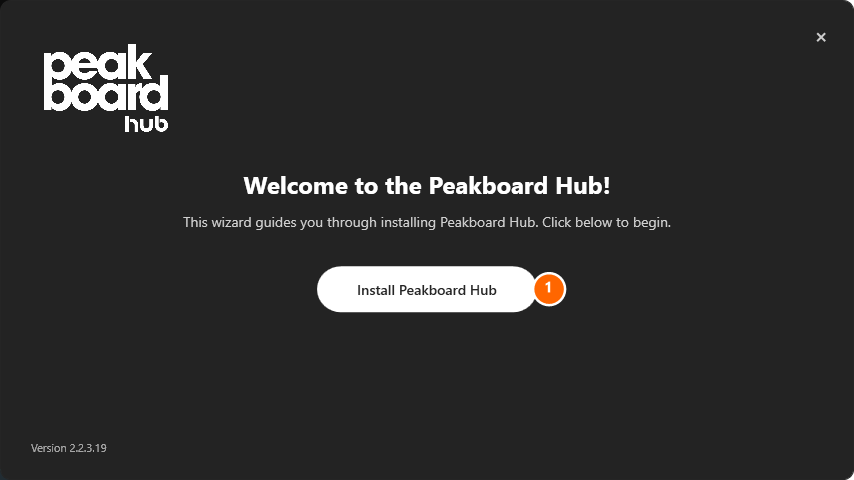
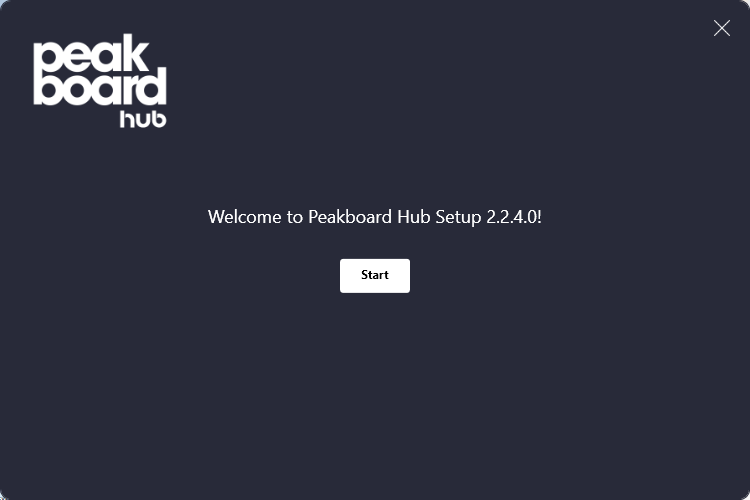
docs(hub): rewrite Peakboard Hub on premise installation for setup v2.2.4.0 (DE+EN)
Rewrite the on-premise installation article to match the redesigned
PeakboardHubSetup.exe wizard: Welcome/Start, Choose Components,
Choose Install Path, Generate Peakboard Hub Database, Create Database
user, progress and Installation finished. Drop the removed User
Authentication step, split the database page into database + database
user, and refresh all screenshots with new annotated captures.

diff --git a/content/_hub/Peakboard_Hub_on_premise/de-hub_installation.md b/content/_hub/Peakboard_Hub_on_premise/de-hub_installation.md
@@ -3,7 +3,7 @@ layout: article
 product: hub
 title: Installation
 menu_title: Installation
-description: Peakboard Hub on premise - Schritt-für-Schritt-Anleitung für den Installer
+description: Peakboard Hub on premise - Schritt-für-Schritt-Anleitung durch das neue Setup
 lang: de
 weight: 100
 ref: hub-100
@@ -12,7 +12,7 @@ redirect_from:
 ---
 
 
-Der Peakboard Hub on premise wird lokal auf deinem Server gehostet und benötigt Windows Server ab mindestens Version 2016. IIS, die ASP.NET Core Runtime und das passende Hosting Bundle musst du nicht vorab installieren — das Setup richtet alles automatisch ein, was der Peakboard Hub on premise zum Laufen braucht.
+Der Peakboard Hub on premise wird lokal auf deinem Server gehostet und benötigt Windows Server ab mindestens Version 2016. IIS, die ASP.NET Core Runtime und das passende .NET Hosting Bundle musst du nicht vorab installieren — das Setup richtet alles automatisch ein, was der Peakboard Hub on premise zum Laufen braucht.
 Es wird zu keinem Zeitpunkt eine Kommunikation nach außen hergestellt, sondern ausschließlich zwischen dem Nutzer, den Peakboard Boxen und dem Peakboard Hub on premise.
 Für die Authentifizierung kann der Windows Domain Controller (Active Directory) oder eine lokale Nutzerverwaltung genutzt werden.
 Die Datenhaltung des Peakboard Hub on premise findet in einem mitgelieferten SQL Server Express statt. Es kann aber auch ein bereits vorhandener SQL Server ab Version 2017 verwendet werden.
@@ -30,83 +30,77 @@ Der Server, auf dem der Peakboard Hub on premise betrieben wird, muss mindestens
 
 ### Installation
 
-Für die initiale Installation auf einem Windows Server benötigst du nur die Installationsdatei des Peakboard Hub on premise, die du [hier](https://downloads.peakboard.com/download/PeakboardHub/master/PeakboardHubSetup.exe) herunterladen kannst. Starte die Datei anschließend mit Administratorrechten — der Installer führt dich in vier Schritten durch die Einrichtung.
+Für die initiale Installation auf einem Windows Server benötigst du nur die Installationsdatei des Peakboard Hub on premise, die du [hier](https://downloads.peakboard.com/download/PeakboardHub/master/PeakboardHubSetup.exe) herunterladen kannst. Starte die Datei anschließend mit Administratorrechten — das Setup führt dich durch die Einrichtung.
 
 #### Schritt 1 — Willkommen
 
-Nach dem Start erscheint der Begrüßungsbildschirm. Klicke auf [Install Peakboard Hub] (1), um den Assistenten zu öffnen.
+Nach dem Start erscheint der Begrüßungsbildschirm mit der aktuellen Setup-Version. Klicke auf [Start], um den Assistenten zu öffnen.
 
-![Begrüßungsbildschirm des Peakboard Hub Installers](/assets/images/hub/installer/hub-installer-01-welcome.png)
+![Begrüßungsbildschirm des Peakboard Hub Setups](/assets/images/hub/installer/hub-installer-01-welcome.png)
 
 #### Schritt 2 — Komponenten auswählen
 
-Im Schritt **Choose components** legst du fest, welche Bestandteile installiert werden sollen. Bereits installierte Komponenten sind standardmäßig abgewählt, sodass du sie bei einem Update überspringst.
+Im Schritt **Choose Components** legst du fest, welche Bestandteile installiert werden sollen. Für eine Erstinstallation kannst du die vorausgewählten Komponenten einfach übernehmen.
 
-* **Peakboard Hub (web application)** (1) — Die zentrale Webanwendung des Peakboard Hub. Bei einer Erstinstallation immer aktiviert lassen.
-* **Install Microsoft SQL Server Express** (2) — Aktiviere die Option, wenn du noch keinen SQL Server zur Verfügung hast. Der Installer richtet dann eine lokale SQL Server Express Instanz ein. Wenn du einen bereits vorhandenen SQL Server nutzen möchtest, lass die Option abgewählt.
-* **Peakboard Hub Public API** (3) — Optionale REST-Schnittstelle, mit der du den Peakboard Hub aus anderen Systemen heraus ansprechen kannst.
+* **Peakboard Hub** (1) — Die zentrale Webanwendung des Peakboard Hub. Bei einer Erstinstallation immer aktiviert lassen.
+* **.NET Hosting Bundle** — Die von IIS benötigte ASP.NET Core Runtime. Lass die Option aktiviert, sofern das Bundle noch nicht auf dem Server vorhanden ist.
+* **Configure IIS Page** — Richtet die IIS-Seite für den Peakboard Hub automatisch ein.
+* **Install Microsoft SQL Server Express** (2) — Aktiviere die Option, wenn du noch keinen SQL Server zur Verfügung hast. Das Setup richtet dann eine lokale SQL Server Express Instanz ein. Wenn du einen bereits vorhandenen SQL Server nutzen möchtest, lass die Option abgewählt.
+* **Configure Database** (3) — Legt die Datenbank und den Datenbankbenutzer für den Peakboard Hub an. Die zugehörigen Angaben machst du in den Schritten 4 und 5.
+* **Peakboard Hub Api** (4) und **Configure API IIS Page** — Optionale REST-Schnittstelle samt eigener IIS-Seite, mit der du den Peakboard Hub aus anderen Systemen heraus ansprechen kannst. Standardmäßig abgewählt.
 
 Klicke anschließend auf [Next].
 
-![Komponentenauswahl im Peakboard Hub Installer](/assets/images/hub/installer/hub-installer-02-components.png)
+![Komponentenauswahl im Peakboard Hub Setup](/assets/images/hub/installer/hub-installer-02-components.png)
 
-#### Schritt 3 — User Authentication
+#### Schritt 3 — Installationsordner
 
-In diesem Schritt legst du fest, gegen welches Backend der Peakboard Hub on premise die Logins prüft. Die Wahl entscheidet, woher die Identitäten deiner Anwender kommen — vom lokalen Windows des Servers oder aus dem Active Directory deiner Domäne.
-
-* **Local Users** (1) — Die Anmeldung erfolgt gegen die *lokalen Windows-Benutzerkonten* des Servers, auf dem der Peakboard Hub on premise installiert ist. Diese Konten und ihre Passwörter werden in Windows verwaltet (zum Beispiel über die Windows-Computerverwaltung), nicht im Peakboard Hub. Es besteht keine Abhängigkeit zu einem Active Directory; der Server muss kein Domänenmitglied sein. Beim Login gibst du den *Windows-Benutzernamen* sowie das zugehörige *Windows-Passwort* ein. Empfehlenswert für eigenständige Server, Evaluierungs- und Testumgebungen sowie kleine Teams ohne eigene Domäne.
-* **AD Users** (2) — Anmeldung über den Windows Domain Controller deiner Umgebung (Active Directory). Vorausgesetzt, der Server, auf dem der Peakboard Hub on premise installiert wird, ist Mitglied derselben Domäne. Beim Login gibst du den *Windows Nutzernamen ohne Domänenpräfix* sowie das *Windows Passwort* ein, sodass deine Anwender mit ihren gewohnten Unternehmenszugangsdaten arbeiten.
-
-In beiden Varianten gilt: Der Peakboard Hub on premise speichert selbst keine Passwörter und legt in der [Nutzerverwaltung](/hub/de-hub_usermanagement.html) keine Konten mit Initialpasswort an. Das Benutzerkonto im Peakboard Hub entsteht automatisch beim ersten erfolgreichen Login. Der erste Nutzer, der sich anmeldet, wird dabei automatisch zum Administrator. In der Hub-Nutzerverwaltung pflegst du anschließend ausschließlich Gruppen und Berechtigungen — die eigentlichen Zugangsdaten verbleiben bei Windows beziehungsweise im Active Directory.
-
-Wähle die passende Option und klicke auf [Next].
-
-![Auswahl der Nutzerauthentifizierung](/assets/images/hub/installer/hub-installer-03-auth.png)
-
-#### Schritt 4 — Installationsordner
-
-Im Schritt **Hub installation folder** legst du fest, wohin der Peakboard Hub installiert wird. Standardmäßig ist `C:\inetpub\PeakboardHub` voreingestellt (1) — dieser Ordner wird später als IIS-Seite eingebunden. Über [Browse...] (2) kannst du einen anderen Pfad wählen.
+Im Schritt **Choose Install Path** legst du fest, wohin der Peakboard Hub installiert wird. Standardmäßig ist `C:\inetpub\PeakboardHub` voreingestellt (1) — dieser Ordner wird später als IIS-Seite eingebunden. Über den Ordner-Button (2) kannst du einen anderen Pfad wählen.
 
 Bestätige deine Auswahl mit [Next].
 
-![Auswahl des Installationsordners](/assets/images/hub/installer/hub-installer-04-folder.png)
+![Auswahl des Installationsordners](/assets/images/hub/installer/hub-installer-03-install-path.png)
 
-#### Schritt 5 — Datenbank
+<div class="box-tip" markdown="1"> **Hinweis**: Wenn du im Schritt 2 **Install Microsoft SQL Server Express** aktiviert gelassen hast, installiert das Setup den SQL Server Express direkt nach diesem Schritt, bevor es mit der Datenbankkonfiguration weitergeht. Der Fortschritt wird dabei über einen Fortschrittsbalken angezeigt.
+</div>
 
-Im Schritt **Database** verbindest du den Peakboard Hub mit seiner SQL-Datenbank.
+#### Schritt 4 — Datenbank
 
-* **Create a new database and user** (1) — Der Installer legt eine neue Datenbank und einen neuen SQL-Nutzer für dich an.
-* **Use an existing database and user** (2) — Wähle diese Option, wenn du eine bereits vorhandene Datenbank weiterverwenden möchtest (zum Beispiel bei einem Update oder einer Migration).
-* **SQL Server instance** (3) — Adresse und Instanzname deines SQL Servers. Bei der mitgelieferten Express-Instanz lautet die Voreinstellung `localhost\SQLEXPRESS`.
-* **Database name** (4) — Name der Datenbank. Standardmäßig `PeakboardHub`.
+Im Schritt **Generate Peakboard Hub Database** verbindest du den Peakboard Hub mit seiner SQL-Datenbank.
 
-![Datenbankkonfiguration — Verbindung und Datenbankname](/assets/images/hub/installer/hub-installer-05-database-top.png)
+* **Create new database** (1) — Aktiviere diese Option bei einer Erstinstallation, damit das Setup eine neue Datenbank für dich anlegt. Lass sie abgewählt, wenn du eine bereits vorhandene Datenbank weiterverwenden möchtest (zum Beispiel bei einem Update oder einer Migration).
+* **MS SQL Server name** (2) — Adresse und Instanzname deines SQL Servers. Bei der mitgelieferten Express-Instanz lautet die Voreinstellung `localhost\SQLEXPRESS`.
+* **MS SQL Database name** (3) — Name der Datenbank. Standardmäßig `PeakboardHub`.
 
-Im unteren Bereich des Dialogs gibst du die Anmeldedaten für den SQL-Nutzer an:
+Mit [Next] geht es weiter zum Datenbankbenutzer.
 
-* **Username** (1) — Loginname des SQL-Nutzers (standardmäßig `pbhub`).
-* **Password** (2) und **Confirm password** (3) — Vergib ein sicheres Passwort und wiederhole es zur Bestätigung. Die Eingabe wird ausgeblendet.
+![Datenbankkonfiguration — SQL Server und Datenbankname](/assets/images/hub/installer/hub-installer-04-database.png)
+
+#### Schritt 5 — Datenbankbenutzer
+
+Im Schritt **Create Database user** legst du den SQL-Benutzer fest, mit dem der Peakboard Hub auf seine Datenbank zugreift.
+
+* **Create new user** (1) — Das Setup legt einen neuen SQL-Benutzer an. Mit **Add existing user** kannst du stattdessen einen bereits vorhandenen Benutzer verwenden.
+* **Username** (2) — Loginname des SQL-Benutzers.
+* **Password** (3) und **Confirm Password** — Vergib ein sicheres Passwort und wiederhole es zur Bestätigung. Die Eingabe wird ausgeblendet.
 
 Mit [Next] startet die eigentliche Installation.
 
-![Datenbankkonfiguration — Nutzername und Passwort](/assets/images/hub/installer/hub-installer-06-database-bottom.png)
+![Anlegen des Datenbankbenutzers](/assets/images/hub/installer/hub-installer-05-database-user.png)
 
 #### Schritt 6 — Installation
 
-Der Assistent zeigt nun den Fortschritt an und führt nacheinander folgende Aufgaben aus: Bereitstellen der Voraussetzungen, Einrichten des SQL Servers, Anlegen der Datenbank, Kopieren der Dateien in den Installationsordner sowie das Eintragen der IIS-Seite. Die aktuell laufende Aufgabe wird über dem Fortschrittsbalken angezeigt.
+Das Setup führt nun die ausgewählten Schritte nacheinander aus: Bereitstellen der Voraussetzungen und des .NET Hosting Bundles, gegebenenfalls Einrichten des SQL Server Express, Anlegen der Datenbank und des Datenbankbenutzers, Kopieren der Dateien in den Installationsordner sowie das Eintragen der IIS-Seite. Die aktuell laufende Aufgabe wird über dem Fortschrittsbalken angezeigt.
 
-![Installationsfortschritt](/assets/images/hub/installer/hub-installer-07-installing.png)
+![Installationsfortschritt](/assets/images/hub/installer/hub-installer-06-installing.png)
 
 #### Schritt 7 — Fertig
 
-Wenn alle Aufgaben erfolgreich abgeschlossen sind, wechselt der Assistent zum Schritt **Installation finished**.
+Wenn alle Aufgaben erfolgreich abgeschlossen sind, wechselt der Assistent zum Schritt **Installation finished** und begrüßt dich mit einer Erfolgsmeldung. Über [Close] (1) schließt du das Setup.
 
-* **Zusammenfassung** (1) — Eine Übersicht über das, was eingerichtet wurde: der Installationsordner, der Datenbankname samt SQL Server Instanz und der Port der IIS-Seite. Darunter findest du den Pfad zur Setup-Logdatei, in der jeder Schritt im Detail nachvollziehbar ist.
-* **Finish** (2) — Schließt den Assistenten. Der Peakboard Hub on premise ist anschließend über den angezeigten Port in deinem Browser erreichbar und taucht in der IIS-Verwaltung als eigene Seite auf.
+![Erfolgreich abgeschlossene Installation](/assets/images/hub/installer/hub-installer-07-finished.png)
 
-![Erfolgreich abgeschlossene Installation](/assets/images/hub/installer/hub-installer-08-finished.png)
-
-Du findest den Peakboard Hub on premise nun in deiner IIS-Verwaltung unter den Seiten und kannst ihn dort wie gewohnt weiter konfigurieren, zum Beispiel eine sichere Kommunikation mit Zertifikaten deines Unternehmens hinterlegen.
+Der Peakboard Hub on premise ist anschließend in deinem Browser erreichbar — standardmäßig unter dem Port `20588`, also zum Beispiel `http://<dein-server>:20588`. Zudem taucht er in der IIS-Verwaltung als eigene Seite auf, die du dort wie gewohnt weiter konfigurieren kannst, zum Beispiel eine sichere Kommunikation mit Zertifikaten deines Unternehmens hinterlegen.
 
 Nach der ersten Anmeldung eines Benutzers im Peakboard Hub on premise wird dieser Benutzer automatisch zum Administrator. Zukünftig kannst du weitere Benutzer in der Benutzerverwaltung des Peakboard Hub on premise zu Admins ernennen.
 
@@ -121,13 +115,11 @@ Hier siehst du, wo du die Berechtigungen setzen musst:
 
 ### Wenn die Installation fehlschlägt
 
-Tritt während der Installation ein Fehler auf, zeigt der Assistent den Schritt **Installation failed** mit einer Fehlermeldung und dem Pfad zur Setup-Logdatei an. Die Logdatei findest du unter `C:\ProgramData\Peakboard\LocalState\Logs\Setup\`. Häufige Ursachen sind eine nicht erreichbare SQL Server Instanz oder fehlende Schreibrechte auf den Installationsordner. Behebe die Ursache und starte den Installer anschließend erneut.
-
-![Fehlgeschlagene Installation](/assets/images/hub/installer/hub-installer-09-failed.png)
+Tritt während der Installation ein Fehler auf, bricht das Setup den betroffenen Schritt mit einer Fehlermeldung ab. Die Setup-Logdateien findest du unter `C:\ProgramData\Peakboard\LocalState\Logs\Setup\`. Häufige Ursachen sind eine nicht erreichbare SQL Server Instanz oder fehlende Schreibrechte auf den Installationsordner. Behebe die Ursache und starte das Setup anschließend erneut.
 
 ### Updates
 
-Um ein Update durchzuführen, lädst du dir die aktuelle [Installationsdatei des Peakboard Hub on premise](https://downloads.peakboard.com/download/PeakboardHub/master/PeakboardHubSetup.exe) herunter und startest den Installer auf demselben Server wie die bestehende Installation. Im Schritt **Choose components** sind alle bereits installierten Komponenten automatisch abgewählt, sodass du nur den Haken bei **Peakboard Hub (web application)** gesetzt lässt. Den weiteren Verlauf des Assistenten durchläufst du wie bei der Erstinstallation; deine bestehende Datenbank bleibt dabei erhalten.
+Um ein Update durchzuführen, lädst du dir die aktuelle [Installationsdatei des Peakboard Hub on premise](https://downloads.peakboard.com/download/PeakboardHub/master/PeakboardHubSetup.exe) herunter und startest das Setup auf demselben Server wie die bestehende Installation. Im Schritt **Choose Components** wählst du die Komponenten ab, die bereits vorhanden sind (zum Beispiel **Install Microsoft SQL Server Express**), und lässt den Haken bei **Peakboard Hub** gesetzt. Im Schritt **Generate Peakboard Hub Database** wählst du **Create new database** ab, damit deine bestehende Datenbank erhalten bleibt. Den weiteren Verlauf des Assistenten durchläufst du wie bei der Erstinstallation.
 
 ### Deinstallation
 

diff --git a/content/_hub/Peakboard_Hub_on_premise/en-hub_installation.md b/content/_hub/Peakboard_Hub_on_premise/en-hub_installation.md
@@ -3,7 +3,7 @@ layout: article
 product: hub
 title: Installation
 menu_title: Installation
-description: Peakboard Hub on premise - step-by-step walkthrough of the installer
+description: Peakboard Hub on premise - step-by-step walkthrough of the new setup
 lang: en
 weight: 100
 ref: hub-100
@@ -12,9 +12,9 @@ redirect_from:
 ---
 
 
-Peakboard Hub on premise is hosted locally on your server and requires Windows Server from at least version 2016. You do not need to install IIS, the ASP.NET Core Runtime or the matching Hosting Bundle beforehand — the setup takes care of every prerequisite that the Peakboard Hub on premise needs to run.
+Peakboard Hub on premise is hosted locally on your server and requires Windows Server from at least version 2016. You do not need to install IIS, the ASP.NET Core Runtime or the matching .NET Hosting Bundle beforehand — the setup takes care of every prerequisite that the Peakboard Hub on premise needs to run.
 There is no external communication at any time, only between the user, the Peakboard Boxes and Peakboard Hub on premise.
-Authentication can be handled either via your Windows Domain Controller (Active Directory) or via local users managed inside the Peakboard Hub itself.
+Authentication can be handled either via your Windows Domain Controller (Active Directory) or via local users.
 The Peakboard Hub on premise stores its data in an included SQL Server Express. An already existing SQL Server from version 2017 can also be used instead.
 
 ### System requirements
@@ -30,83 +30,77 @@ The server running Peakboard Hub on premise must meet at least the following req
 
 ### Installation
 
-For the initial installation on a Windows server, you only need the installation file of the Peakboard Hub on premise, which is provided [here](https://downloads.peakboard.com/download/PeakboardHub/master/PeakboardHubSetup.exe). Run the file with administrator rights — the installer guides you through the setup in four numbered steps.
+For the initial installation on a Windows server, you only need the installation file of the Peakboard Hub on premise, which is provided [here](https://downloads.peakboard.com/download/PeakboardHub/master/PeakboardHubSetup.exe). Run the file with administrator rights — the setup guides you through the installation.
 
 #### Step 1 — Welcome
 
-When you start the installer, the welcome screen appears. Click [Install Peakboard Hub] (1) to open the wizard.
+When you start the setup, the welcome screen appears together with the current setup version. Click [Start] to open the wizard.
 
-![Peakboard Hub Installer welcome screen](/assets/images/hub/installer/hub-installer-01-welcome.png)
+![Peakboard Hub Setup welcome screen](/assets/images/hub/installer/hub-installer-01-welcome.png)
 
 #### Step 2 — Choose components
 
-On the **Choose components** page you decide which parts of Peakboard Hub will be installed. Components that are already installed are de-selected by default, so they are skipped during an update.
+On the **Choose Components** page you decide which parts of Peakboard Hub will be installed. For an initial installation you can simply keep the pre-selected components.
 
-* **Peakboard Hub (web application)** (1) — The Peakboard Hub web application itself. Keep this option enabled for an initial installation.
-* **Install Microsoft SQL Server Express** (2) — Enable this option if you do not have an SQL Server available yet. The installer then sets up a local SQL Server Express instance. If you want to reuse an existing SQL Server, leave the option unchecked.
-* **Peakboard Hub Public API** (3) — Optional REST interface that lets you talk to the Peakboard Hub from other systems.
+* **Peakboard Hub** (1) — The Peakboard Hub web application itself. Keep this option enabled for an initial installation.
+* **.NET Hosting Bundle** — The ASP.NET Core Runtime that IIS requires. Leave the option enabled unless the bundle is already present on the server.
+* **Configure IIS Page** — Sets up the IIS site for the Peakboard Hub automatically.
+* **Install Microsoft SQL Server Express** (2) — Enable this option if you do not have an SQL Server available yet. The setup then sets up a local SQL Server Express instance. If you want to reuse an existing SQL Server, leave the option unchecked.
+* **Configure Database** (3) — Creates the database and the database user for the Peakboard Hub. You provide the related details in steps 4 and 5.
+* **Peakboard Hub Api** (4) and **Configure API IIS Page** — Optional REST interface with its own IIS site that lets you talk to the Peakboard Hub from other systems. Unchecked by default.
 
 Click [Next] to continue.
 
-![Component selection in the Peakboard Hub Installer](/assets/images/hub/installer/hub-installer-02-components.png)
+![Component selection in the Peakboard Hub Setup](/assets/images/hub/installer/hub-installer-02-components.png)
 
-#### Step 3 — User Authentication
+#### Step 3 — Installation folder
 
-In this step you decide which backend the Peakboard Hub on premise checks logins against. The choice decides where the identities of your users come from — the local Windows of the server, or the Active Directory of your domain.
-
-* **Local Users** (1) — Authentication goes against the *local Windows user accounts* of the server that hosts the Peakboard Hub on premise. Those accounts and their passwords are managed inside Windows (for example via the Windows Computer Management console), not inside the Peakboard Hub. There is no dependency on an Active Directory and the server does not need to be a domain member. At the login screen users enter their *Windows user name* together with the matching *Windows password*. A good fit for standalone servers, evaluation or test environments and smaller teams without their own domain.
-* **AD Users** (2) — Authentication through your Windows Domain Controller (Active Directory). The server that hosts the Peakboard Hub on premise must be a member of the same domain. At the login screen users enter their *Windows user name without the domain prefix* together with their *Windows password*, so they sign in with the corporate credentials they already use.
-
-For both options the same rule applies: the Peakboard Hub on premise does not store any passwords itself, and you do not pre-create user accounts with an initial password in the [user management](/hub/en-hub_usermanagement.html). The Hub account is created automatically on the first successful login. The first user that signs in becomes the administrator. In the Hub user management you only maintain groups and permissions afterwards — the actual credentials stay with Windows respectively the Active Directory.
-
-Pick the option that fits your environment and click [Next].
-
-![User authentication choice](/assets/images/hub/installer/hub-installer-03-auth.png)
-
-#### Step 4 — Installation folder
-
-On the **Hub installation folder** page you choose where Peakboard Hub is installed. The default is `C:\inetpub\PeakboardHub` (1) — that folder is later added as a site in IIS. Use [Browse...] (2) to pick a different path if you need to.
+On the **Choose Install Path** page you choose where Peakboard Hub is installed. The default is `C:\inetpub\PeakboardHub` (1) — that folder is later added as a site in IIS. Use the folder button (2) to pick a different path if you need to.
 
 Confirm your choice with [Next].
 
-![Installation folder selection](/assets/images/hub/installer/hub-installer-04-folder.png)
+![Installation folder selection](/assets/images/hub/installer/hub-installer-03-install-path.png)
 
-#### Step 5 — Database
+<div class="box-tip" markdown="1"> **Note**: If you kept **Install Microsoft SQL Server Express** enabled in step 2, the setup installs SQL Server Express right after this step, before it continues to the database configuration. Its progress is shown on a progress bar.
+</div>
 
-On the **Database** page you connect the Peakboard Hub to its SQL database.
+#### Step 4 — Database
 
-* **Create a new database and user** (1) — The installer creates a fresh database together with a new SQL login for you.
-* **Use an existing database and user** (2) — Pick this option to reuse a database that already exists (for example during an update or a migration).
-* **SQL Server instance** (3) — Address and instance name of your SQL Server. With the included SQL Server Express the default is `localhost\SQLEXPRESS`.
-* **Database name** (4) — Name of the database. The default is `PeakboardHub`.
+On the **Generate Peakboard Hub Database** page you connect the Peakboard Hub to its SQL database.
 
-![Database configuration — connection and database name](/assets/images/hub/installer/hub-installer-05-database-top.png)
+* **Create new database** (1) — Enable this option for an initial installation so the setup creates a fresh database for you. Leave it unchecked to reuse a database that already exists (for example during an update or a migration).
+* **MS SQL Server name** (2) — Address and instance name of your SQL Server. With the included SQL Server Express the default is `localhost\SQLEXPRESS`.
+* **MS SQL Database name** (3) — Name of the database. The default is `PeakboardHub`.
 
-In the lower half of the dialog you supply the credentials for the SQL login:
+Click [Next] to continue to the database user.
 
-* **Username** (1) — Login name of the SQL user (default `pbhub`).
-* **Password** (2) and **Confirm password** (3) — Enter a strong password and repeat it for confirmation. The value is masked while you type.
+![Database configuration — SQL Server and database name](/assets/images/hub/installer/hub-installer-04-database.png)
+
+#### Step 5 — Database user
+
+On the **Create Database user** page you define the SQL user that the Peakboard Hub uses to access its database.
+
+* **Create new user** (1) — The setup creates a new SQL user. With **Add existing user** you can use a user that already exists instead.
+* **Username** (2) — Login name of the SQL user.
+* **Password** (3) and **Confirm Password** — Enter a strong password and repeat it for confirmation. The value is masked while you type.
 
 Click [Next] to start the actual installation.
 
-![Database configuration — username and password](/assets/images/hub/installer/hub-installer-06-database-bottom.png)
+![Creating the database user](/assets/images/hub/installer/hub-installer-05-database-user.png)
 
 #### Step 6 — Installation
 
-The wizard now shows the progress and performs the following tasks one after the other: installing the prerequisites, setting up the SQL Server, creating the database, copying the files into the installation folder and registering the IIS site. The currently running task is shown above the progress bar.
+The setup now performs the selected steps one after the other: installing the prerequisites and the .NET Hosting Bundle, setting up SQL Server Express if selected, creating the database and the database user, copying the files into the installation folder and registering the IIS site. The currently running task is shown above the progress bar.
 
-![Installation progress](/assets/images/hub/installer/hub-installer-07-installing.png)
+![Installation progress](/assets/images/hub/installer/hub-installer-06-installing.png)
 
 #### Step 7 — Done
 
-Once every task has finished successfully, the wizard switches to the **Installation finished** step.
+Once every task has finished successfully, the wizard switches to the **Installation finished** step and greets you with a success message. Click [Close] (1) to close the setup.
 
-* **Summary** (1) — A short recap of what has been set up: the installation folder, the database name and SQL Server instance, and the port the IIS site is bound to. Right below you find the path to the setup log, where every step is recorded in detail for later reference.
-* **Finish** (2) — Closes the wizard. The Peakboard Hub on premise is now reachable in your browser at the shown port and appears in the IIS Manager as its own site.
+![Successfully finished installation](/assets/images/hub/installer/hub-installer-07-finished.png)
 
-![Successfully finished installation](/assets/images/hub/installer/hub-installer-08-finished.png)
-
-The new site is also visible in the IIS Manager under your sites, where you can configure it like any other IIS site — for example by binding certificates from your company for secure communication.
+The Peakboard Hub on premise is now reachable in your browser — by default on port `20588`, for example `http://<your-server>:20588`. It also appears in the IIS Manager as its own site, where you can configure it like any other IIS site — for example by binding certificates from your company for secure communication.
 
 After the first user signs in to the Peakboard Hub on premise, this user automatically becomes an administrator. You can promote additional users to administrators later from the user management of the Peakboard Hub on premise.
 
@@ -121,13 +115,11 @@ Here you can see where to set the permissions:
 
 ### If the installation fails
 
-If something goes wrong during the install, the wizard switches to the **Installation failed** step and shows the error message together with the path to the setup log file. The log files live under `C:\ProgramData\Peakboard\LocalState\Logs\Setup\`. Common causes are an unreachable SQL Server instance or missing write permissions on the installation folder. Fix the cause and run the installer again.
-
-![Failed installation](/assets/images/hub/installer/hub-installer-09-failed.png)
+If something goes wrong during the install, the setup stops the affected step and shows an error message. The setup log files live under `C:\ProgramData\Peakboard\LocalState\Logs\Setup\`. Common causes are an unreachable SQL Server instance or missing write permissions on the installation folder. Fix the cause and run the setup again.
 
 ### Updates
 
-To perform an update, download the latest [Peakboard Hub on premise installation file](https://downloads.peakboard.com/download/PeakboardHub/master/PeakboardHubSetup.exe) and run the installer on the same server as your existing installation. On the **Choose components** step the installer automatically de-selects components that are already installed, so you typically keep only the **Peakboard Hub (web application)** check box enabled. You step through the wizard like in a fresh install; your existing database is preserved.
+To perform an update, download the latest [Peakboard Hub on premise installation file](https://downloads.peakboard.com/download/PeakboardHub/master/PeakboardHubSetup.exe) and run the setup on the same server as your existing installation. On the **Choose Components** page you de-select the components that are already present (for example **Install Microsoft SQL Server Express**) and keep **Peakboard Hub** checked. On the **Generate Peakboard Hub Database** page you clear **Create new database** so your existing database is preserved. You step through the rest of the wizard like in a fresh install.
 
 ### Uninstall
 
